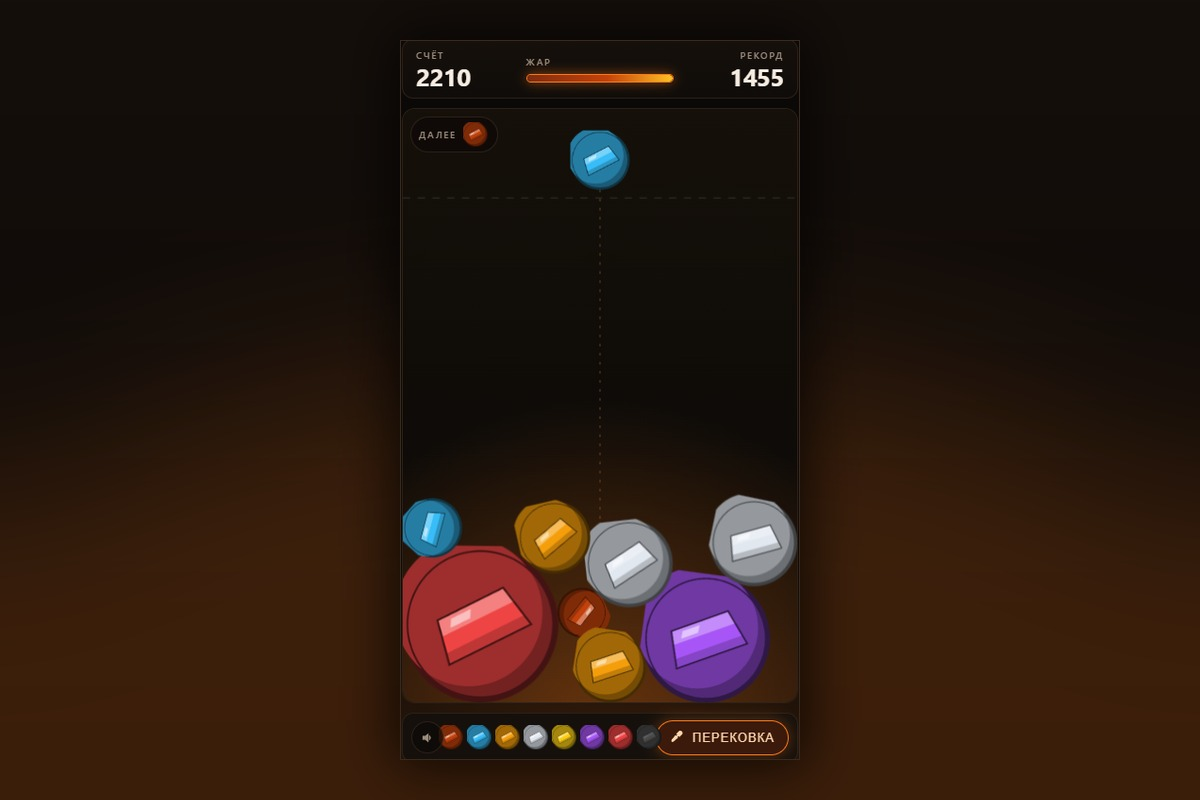
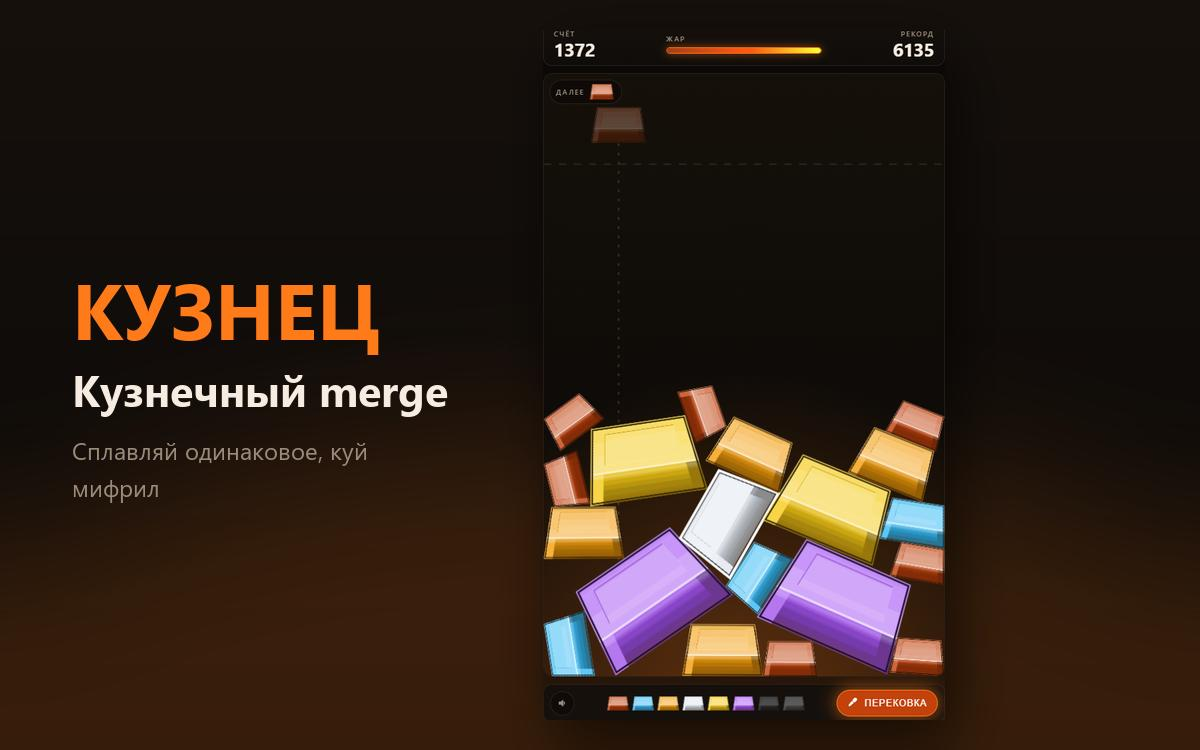
КУЗНЕЦ: тело в физике стало самим слитком
Круглые тела требовали рисовать диск-подложку под каждый спрайт, иначе
между лежащими слитками зияли дыры. Форма тела теперь — та же трапеция,
что и силуэт спрайта: подложка убрана, слитки касаются гранями.

- Bodies.trapezoid вместо Bodies.circle, попадание молотом через
  Vertices.contains, линия горна по bounds вместо радиуса
- спрайты перерисованы: верхняя грань, фаска, бортик, торцевые фаски;
  576x384, палитра на 128 цветов — 48 КБ на все восемь тиров
- иконка витрины, обложка и скриншоты пересняты с новой графики

diff --git a/public/games/kuznets/game.js b/public/games/kuznets/game.js
@@ -9,7 +9,7 @@
 (() => {
   "use strict";
 
-  const { Engine, Composite, Bodies, Body, Events } = Matter;
+  const { Engine, Composite, Bodies, Body, Events, Vertices } = Matter;
 
   // ── Константы поля ──────────────────────────────────────────────
 
@@ -23,7 +23,14 @@
   const DROP_COOLDOWN = 320;
   const MAX_TIER = 8;
 
-  const R = [0, 30, 36, 44, 53, 65, 78, 95, 115];
+  const R = [0, 30, 36, 44, 53, 65, 78, 95, 115];   // масштаб тира, от него пляшут эффекты
+
+  // Слиток — не круг: тело в физике повторяет силуэт спрайта, поэтому лежащие
+  // слитки касаются друг друга гранями и подложка под ними больше не нужна.
+  // Меняешь SLOPE или ASPECT — перерисуй assets/make_ingots.py теми же числами.
+  const SLOPE = 0.20;         // верхняя грань уже нижней на эту долю
+  const ASPECT = 1.55;        // ширина к высоте
+  const SHAPE = [];           // {w, h, dy} — габарит спрайта и снос центроида
   const SCORE = [0, 0, 2, 5, 9, 15, 24, 38, 60];
   const HEAT = [0, 0, 6, 9, 13, 18, 24, 32, 42];
   const CHAIN_MS = 800;
@@ -128,6 +135,14 @@
   const consumed = new Set();
   const pendingMerges = [];
 
+  // центр масс трапеции ниже центра габарита — спрайт кладём со сносом,
+  // иначе картинка съедет относительно тела
+  for (let t = 1; t <= MAX_TIER; t++) {
+    const h = R[t] * 1.42, w = h * ASPECT;
+    const probe = Bodies.trapezoid(0, 0, w, h, SLOPE);
+    SHAPE[t] = { w, h, dy: (probe.bounds.min.y + probe.bounds.max.y) / 2 - probe.position.y };
+  }
+
   const floor = Bodies.rectangle(W / 2, H + 30, W + 240, 60, { isStatic: true });
   Composite.add(world, [
     floor,
@@ -228,7 +243,7 @@
 
   // ── Яндекс SDK: работает и без него ─────────────────────────────
 
-  const YS = { sdk: null, lb: false };
+  const YS = { sdk: null, lb: false, player: null };
 
   /** SDK живёт только на площадке: вне её тег ничего не грузит и не сорит в консоль. */
   function loadSdkScript() {
@@ -254,7 +269,26 @@
       if (lang && STR[lang]) L = STR[lang];
       // getLeaderboards() устарел и бросает — метод проверяем через isAvailableMethod
       try { YS.lb = await YS.sdk.isAvailableMethod("leaderboards.setScore"); } catch { YS.lb = false; }
+      await loadCloud();
     } catch { /* играем без платформы */ }
+  }
+
+  /** Рекорд и настройки живут в облаке игрока, localStorage — запасной вариант. */
+  async function loadCloud() {
+    try {
+      YS.player = await YS.sdk.getPlayer({ scopes: false });
+      const data = await YS.player.getData(["best", "muted"]);
+      if (typeof data.best === "number" && data.best > S.best) {
+        S.best = data.best;
+        localStorage.setItem("kuznets.best", String(S.best));
+      }
+      if (typeof data.muted === "boolean") SND.muted = data.muted;
+    } catch { /* гость или метод недоступен — играем на локальном рекорде */ }
+  }
+
+  function saveCloud() {
+    if (!YS.player) return;
+    Promise.resolve(YS.player.setData({ best: S.best, muted: SND.muted }, false)).catch(() => {});
   }
 
   function sdkReady() { try { YS.sdk?.features?.LoadingAPI?.ready(); } catch {} }
@@ -363,10 +397,10 @@
   }
 
   function spawn(tier, x, y, vx = 0, vy = 0) {
-    const b = Bodies.circle(x, y, R[tier], {
-      restitution: 0.12,
-      friction: 0.36,
-      frictionStatic: 0.6,
+    const b = Bodies.trapezoid(x, y, SHAPE[tier].w, SHAPE[tier].h, SLOPE, {
+      restitution: 0.10,
+      friction: 0.30,
+      frictionStatic: 0.5,
       density: 0.0011,
       slop: 0.02,
     });
@@ -481,7 +515,7 @@
   function orbAt(x, y) {
     for (let i = orbs.length - 1; i >= 0; i--) {
       const o = orbs[i];
-      if (Math.hypot(o.position.x - x, o.position.y - y) <= o.circleRadius) return o;
+      if (Vertices.contains(o.vertices, { x, y })) return o;
     }
     return null;
   }
@@ -523,7 +557,7 @@
   }
 
   function clampAim(x) {
-    const r = R[S.holdTier];
+    const r = SHAPE[S.holdTier].w / 2;
     return Math.max(r + 4, Math.min(W - r - 4, x));
   }
 
@@ -562,6 +596,9 @@
 
   stage.addEventListener("pointercancel", () => {});
 
+  // площадка требует убрать браузерное меню с поля: правый клик и долгий тап
+  stage.addEventListener("contextmenu", (e) => e.preventDefault());
+
   elHammer.addEventListener("click", () => (S.armed ? disarm() : arm()));
 
   window.addEventListener("keydown", (e) => {
@@ -576,6 +613,7 @@
     SND.muted = !SND.muted;
     localStorage.setItem("kuznets.muted", SND.muted ? "1" : "0");
     e.currentTarget.classList.toggle("off", SND.muted);
+    saveCloud();
   });
 
   // ── Отрисовка ───────────────────────────────────────────────────
@@ -630,7 +668,7 @@
       ctx.lineWidth = 1.5;
       ctx.strokeStyle = "rgba(255,170,90,.28)";
       ctx.beginPath();
-      ctx.moveTo(S.aimX, DROP_Y + R[S.holdTier]);
+      ctx.moveTo(S.aimX, DROP_Y + SHAPE[S.holdTier].h / 2);
       ctx.lineTo(S.aimX, H - 8);
       ctx.stroke();
       ctx.restore();
@@ -688,25 +726,35 @@
     ctx.restore();
   }
 
+  /** Контур слитка в системе координат тела — тот же, что у Bodies.trapezoid. */
+  function ingotPath(s) {
+    const half = s.w / 2, top = half * (1 - SLOPE);
+    const y0 = s.dy - s.h / 2, y1 = s.dy + s.h / 2;
+    ctx.beginPath();
+    ctx.moveTo(-half, y1);
+    ctx.lineTo(half, y1);
+    ctx.lineTo(top, y0);
+    ctx.lineTo(-top, y0);
+    ctx.closePath();
+  }
+
   function drawOrb(tier, x, y, angle, alpha, highlight) {
     const im = IMG[tier];
-    const r = R[tier];
+    const s = SHAPE[tier];
     ctx.save();
     ctx.globalAlpha = alpha;
     ctx.translate(x, y);
     if (angle) ctx.rotate(angle);
-    if (im && im.width) ctx.drawImage(im, -r, -r, r * 2, r * 2);
+    if (im && im.width) ctx.drawImage(im, -s.w / 2, s.dy - s.h / 2, s.w, s.h);
     else {
       ctx.fillStyle = TINT[tier];
-      ctx.beginPath();
-      ctx.arc(0, 0, r, 0, Math.PI * 2);
+      ingotPath(s);
       ctx.fill();
     }
     if (highlight) {
       ctx.strokeStyle = "#fff";
-      ctx.lineWidth = 2;
-      ctx.beginPath();
-      ctx.arc(0, 0, r + 2, 0, Math.PI * 2);
+      ctx.lineWidth = 3;
+      ingotPath(s);
       ctx.stroke();
     }
     ctx.restore();
@@ -758,7 +806,7 @@
       let over = false;
       for (const b of orbs) {
         if (now - b.born < SPAWN_GRACE) continue;
-        if (b.position.y - b.circleRadius < DEATH_Y && b.speed < 1.1) { over = true; break; }
+        if (b.bounds.min.y < DEATH_Y && b.speed < 1.1) { over = true; break; }
       }
       S.deathT = over ? S.deathT + dt : 0;
       if (S.deathT > DEATH_HOLD) gameOver();
@@ -811,6 +859,7 @@
       S.best = S.score;
       localStorage.setItem("kuznets.best", String(S.best));
       elBest.textContent = S.best;
+      saveCloud();
     }
     sdkScore(S.score);
 

diff --git a/src/lib/projects.ts b/src/lib/projects.ts
@@ -331,7 +331,7 @@ export const projects: Project[] = [
       "Reforge fixes the genre's worst moment: a lone ingot buried under the pile with its pair unreachable. Heat builds from every fusion; a full meter spends on one targeted weld.",
       "Fixed 60 Hz timestep with a substep accumulator, so a 144 Hz laptop and a throttled phone run identical physics instead of drifting apart.",
       "The basin height adapts to the viewport shape — a tall phone gets a deeper forge — and the floor body moves with it rather than the field being letterboxed.",
-      "Sprites are generated, not drawn by hand: a billet with an inlaid ingot, flat three-tone shading, supersampled 4x. A build-time assert fails if a sprite stops filling its collision circle, which is what caused visible gaps between resting bodies in the first pass.",
+      "Bodies are the ingots themselves, not circles wearing an ingot picture. Round bodies forced a disc backing under every sprite to hide the gaps between them; making the collision shape the trapezoid deleted the backing and the gaps in one move.",
       "Tier palette run through a colour-vision-deficiency validator before anything was rendered: worst adjacent pair ΔE 17.4 under deuteranopia. Warm and cool alternate up the ladder so neighbours never blur together.",
       "Sound is synthesised in WebAudio — a noise transient through a bandpass plus two detuned triangles, pitched by tier. No audio files ship at all, and it mutes on tab blur and during ads, as the platform requires.",
       "Yandex Games SDK is optional at runtime: leaderboard, interstitials and language detection when the platform is there, a plain game when it is not.",
@@ -363,7 +363,7 @@ export const projects: Project[] = [
         me: [
           "The Reforge mechanic — what it costs, what happens on a miss, and why a failed strike must not spend the meter.",
           "Killing eight separate Blender renders. Mirror-finish metal reflects an almost-black world, so silver and platinum came out black; one neutral render tinted per tier was both better looking and controllable.",
-          "Catching that the sprites had a transparent margin and a 14% squash, which is what put visible gaps between resting bodies — a rendering bug that reads as a physics bug.",
+          "Refusing to keep patching the art around a round collision shape, and changing the shape instead. Every earlier fix — a disc backing, a zero-margin assert — was paying rent on the wrong decision.",
           "Deciding the chain multiplier was worth the volatility. A seven-link cascade paying +168 is the moment people replay for.",
         ],
       },
@@ -371,7 +371,7 @@ export const projects: Project[] = [
         "Live and playable in the browser and on a phone. A full run lands around three to four minutes, all eight tiers are reachable, and the whole thing weighs under half a megabyte including the physics engine.",
       lessons: [
         "Check the shop before designing. Ten minutes in the catalogue replaced a whole argument about what format to build.",
-        "A gap between two circles that are touching is not a physics bug. Measure the sprite before you touch the solver — the transparent margin was 12.5% and the collision radius was right all along.",
+        "When the art keeps needing workarounds, the collision shape is usually the thing that is wrong. A disc painted under every ingot hid the gaps; making the body the ingot removed the reason for both.",
         "Never render a mirror metal against a dark world. Metallic 1.0 has no diffuse component, so the object shows you the room, and the room was black.",
         "Fixed timestep is not premature. Variable delta physics works perfectly on the machine you wrote it on and nowhere else.",
         "Give a spent resource a refund path. The hammer staying raised after a miss is three lines of code and it is the difference between a mechanic people use and one they are afraid of.",

diff --git a/src/lib/i18n.tsx b/src/lib/i18n.tsx
@@ -162,7 +162,7 @@ const dict = {
     "project.kuznets.b4":
       "The basin height adapts to the viewport shape — a tall phone gets a deeper forge — and the floor body moves with it rather than the field being letterboxed.",
     "project.kuznets.b5":
-      "Sprites are generated, not drawn by hand, and a build-time assert fails if one stops filling its collision circle — that margin is what put visible gaps between resting bodies in the first pass.",
+      "Bodies are the ingots themselves, not circles wearing an ingot picture — the collision shape is the same trapezoid as the sprite, so resting ingots touch face to face and need no disc painted underneath.",
     "project.kuznets.b6":
       "Tier palette run through a colour-vision-deficiency validator before anything was rendered: worst adjacent pair ΔE 17.4 under deuteranopia. Warm and cool alternate up the ladder so neighbours never blur together.",
     "project.kuznets.b7":
@@ -397,7 +397,7 @@ const dict = {
     "project.kuznets.b4":
       "Высота горна подстраивается под форму экрана — на вытянутом телефоне бассейн глубже, — и пол двигается вместе с ней, вместо того чтобы обрамлять поле пустыми полями.",
     "project.kuznets.b5":
-      "Спрайты генерируются, а не рисуются руками, и сборка падает по assert, если спрайт перестал заполнять свой физический круг — именно эти поля давали видимые дыры между лежащими телами в первой версии.",
+      "Тело в физике — сам слиток, а не круг с картинкой слитка: форма тела повторяет силуэт спрайта, поэтому лежащие слитки касаются гранями и подложка под ними не нужна.",
     "project.kuznets.b6":
       "Палитра тиров прогнана через валидатор на дальтонизм до того, как был отрисован первый спрайт: худшая соседняя пара ΔE 17.4 при дейтеранопии. Тёплые и холодные чередуются по лестнице, поэтому соседи никогда не сливаются.",
     "project.kuznets.b7":

diff --git a/public/games/kuznets/style.css b/public/games/kuznets/style.css
@@ -143,7 +143,7 @@ body::before { /* угли под горном — единственный ис
   pointer-events: none;
 }
 
-#next-img { width: 26px; height: 26px; }
+#next-img { width: 34px; height: 22px; }
 
 #hammer {
   flex: 0 0 auto;
@@ -283,8 +283,8 @@ body::before { /* угли под горном — единственный ис
 }
 
 #ladder img {
-  width: 26px;
-  height: 26px;
+  width: 31px;
+  height: 20px;
   filter: grayscale(1) brightness(.42);
   transition: filter .35s, transform .35s;
 }
@@ -322,7 +322,7 @@ body::before { /* угли под горном — единственный ис
 @media (max-width: 400px) {
   #hammer span { display: none; }
   #hammer { padding: 9px 12px; }
-  #ladder img { width: 22px; height: 22px; }
+  #ladder img { width: 26px; height: 17px; }
 }
 
 @media (max-height: 520px) {
